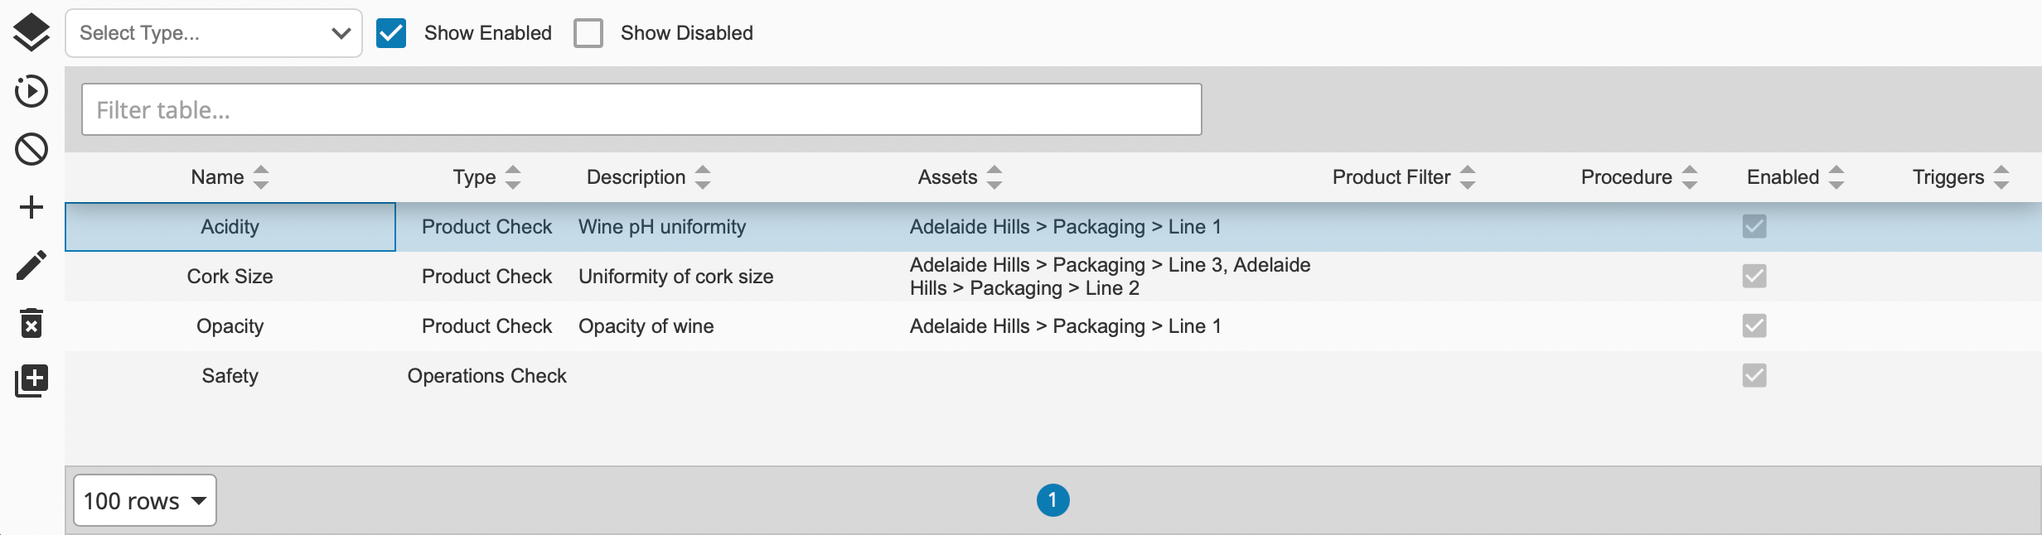
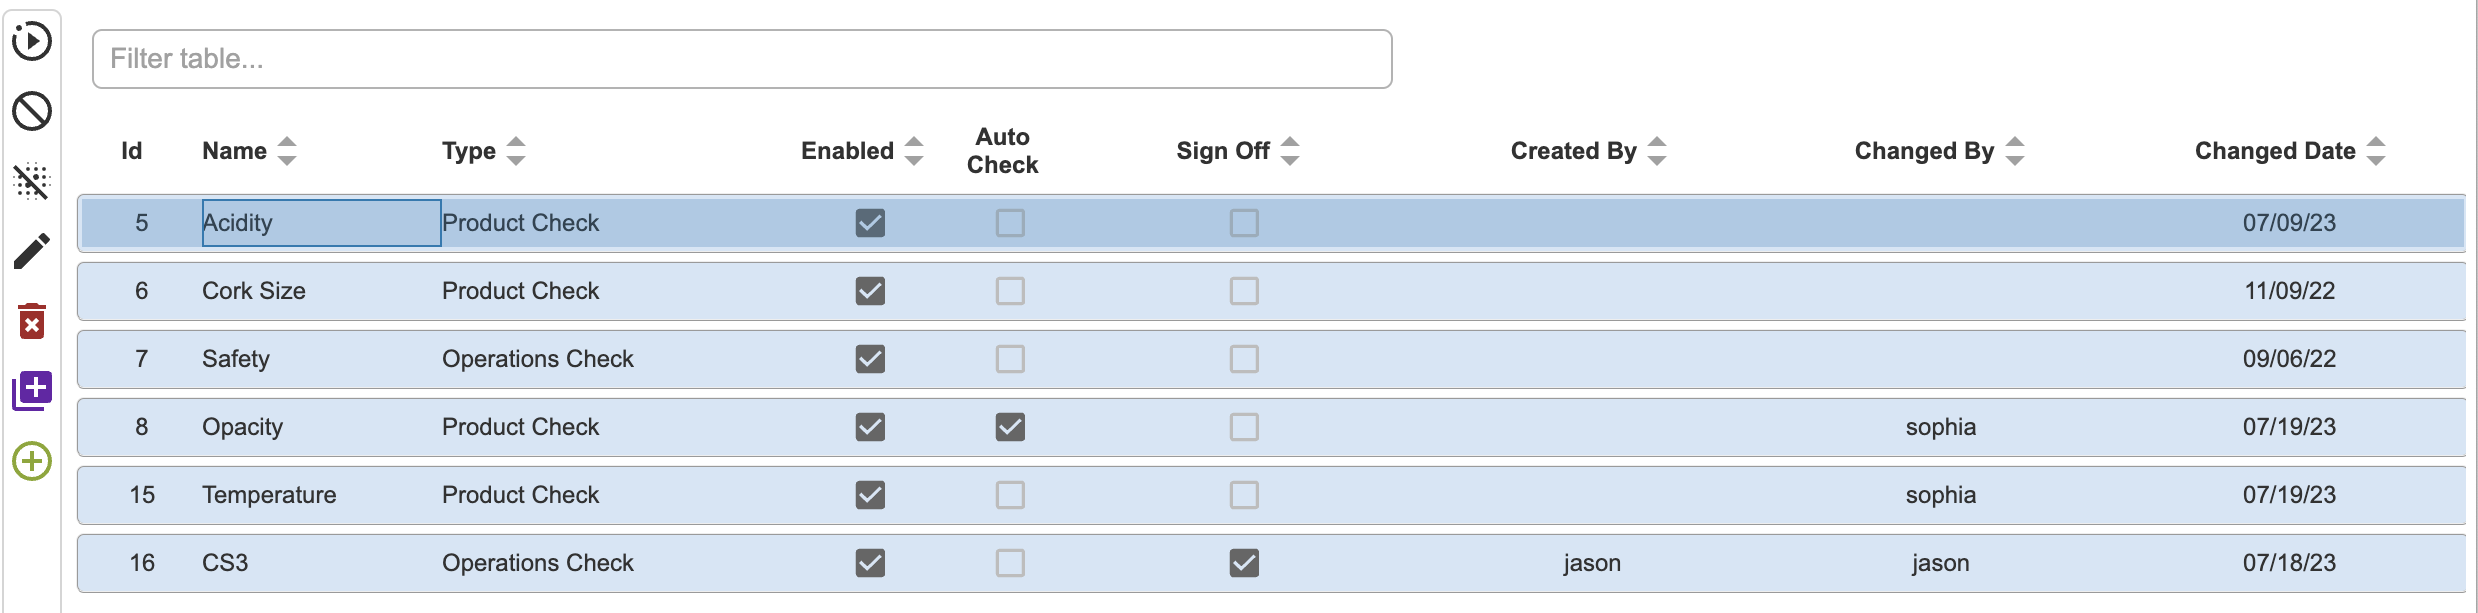
7/19 update

diff --git a/docs/products/quality/configuration/checks.md b/docs/products/quality/configuration/checks.md
@@ -1,6 +1,6 @@
 ---
-id: check-sheets
-title: Check Sheets
+id: checks
+title: Checks
 sidebar_position: 1
 ---
 
@@ -12,54 +12,67 @@ import DuplicateIcon from '@mui/icons-material/AddToPhotosSharp';
 import RefreshIcon from '@mui/icons-material/Cached';
 import UpIcon from '@mui/icons-material/KeyboardArrowUp';
 import DownIcon from '@mui/icons-material/KeyboardArrowDown';
+import ControlPointIcon from '@mui/icons-material/ControlPoint';
+import LayersIcon from '@mui/icons-material/Layers';
 
 :::info
-In order to perform and capture a quality, safety, operations or environmental check, that check must be defined in a check sheet. A check sheet is a collection of one more check items to be taken as a group. Check sheets can be configured in **Quality > Configuration > Check Sheets**.
+In order to perform and capture an operations, part or production check, that check must be defined in a check sheet. A check sheet is a collection of one more check items to be taken as a group. Check sheets can be configured in **Quality > Configuration > Check Sheets**.
 :::
 
 ## Overview
-Existing Check Sheets can be filtered by Asset, Product Set or Product and enabled/disabled state.
-Check sheets can be added <AddIcon fontSize="small" />, edited <EditIcon fontSize="small" />, deleted <DeleteIcon fontSize="small" /> and duplicated <DuplicateIcon fontSize="small" />.
+Existing Check Sheets can be filtered by Asset <LayersIcon fontSize="small" />, Check Type and Enabled/Disabled state.
+![Check Sheets](/img/55.png)
+
+Check sheets can be edited <EditIcon fontSize="small" />, deleted <DeleteIcon fontSize="small" sx={{color: "#a72525"}} />, duplicated <DuplicateIcon fontSize="small" sx={{color: "#6823a8"}} />, and added <ControlPointIcon fontSize="small" sx={{color: "#89a726"}} />.
 
 ![Check Sheets](/img/checksheets-1.png)
 
 ## Creating Check Sheets
-To create a new check sheet, click the Add icon <AddIcon fontSize="small" />. This opens the Check Sheet Editor where the check sheet’s specifications are added.
+To create a new check sheet, click the **Add** icon <ControlPointIcon fontSize="small" sx={{color: "#89a726"}} />. This opens the Check Sheet Editor where the check sheet’s specifications are added.
+![Check Sheets](/img/56.png)
 
 ### Check Sheet Types
-There are three types of check sheets that can be created, Operations, Environmental, and Product. Operations and Environmental Checks can be used to perform housekeeping, environmental controls and safety checks, and do not require a product to be selected. Product Checks record the product being checked and apply any product or process specs.
+There are three types of check sheets that can be created, Operations, Part, and Production. Operations and Environmental Checks can be used to perform housekeeping, environmental controls and safety checks, and do not require a product to be selected. Product Checks record the product being checked and apply any product or process specs.
 
-![Check Sheets](/img/checksheets-2.png)
+![Check Sheets](/img/57.png)
 
-### Auto
-Select ‘Auto’ if this check sheet will automatically capture check values directly from the equipment. Leave ‘Auto’ as false if checks are to be manually performed. An auto checks requires plc tag paths to be added to the process attribute.
 
-### Require Signoff
-When disabled, ‘Submitted’ check sheets will automatically be set to an ‘Approved’ status and values will be used in SPC analysis. When enabled, ‘Submitted’ check sheets can be manually ‘Approved’ or ‘Rejected’.
-
-### Enabled
-If disabled, this check sheet will not be available.
-
-![Check Sheets](/img/checksheets-3.png)
 
 ### Assets(s)
 A check sheet can be configured to only be valid for certain assets. If left blank, this check sheet can be used for all assets. Use the selector on the right to select a list of assets that the check sheet is applicable to. Use the CTRL key to select multiple assets.
 
-### Product(s)
-A check sheet can be configured to only be valid for a certain product or a product set. If left blank, this check sheet can be used for all products. Use the dropdowns to select a specific product or product set.
+### Item(s)
+A check sheet can be configured to only be valid for a certain item. If left blank, this check sheet can be used for all items. Use the dropdowns to select a specific item.
 
-![Check Sheets](/img/checksheets-4.png)
+### Item Sets
+A check sheet can be configured to only be valid for a certain item set. If left blank, this check sheet can be used for all items. Use the dropdowns to select a specific item set.
+![Check Sheets](/img/59.png)
+
+### Tooling
+
+### Auto
+Select **Auto** if this check sheet will automatically capture check values directly from the equipment. Leave ‘Auto’ as false if checks are to be manually performed. An auto checks requires plc tag paths to be added to the process attribute.
+
+### Signoff
+This option indicates that this check requires signoff. When disabled, ‘Submitted’ check sheets will automatically be set to an ‘Approved’ status and values will be used in SPC analysis. When enabled, ‘Submitted’ check sheets can be manually ‘Approved’ or ‘Rejected’.
+
+### Enabled
+If disabled, this check sheet will not be available.
+
+![Check Sheets](/img/58.png)
 
 ### On Fail
-When enabled, a re-test will be automatically scheduled. The re-test can be the same check sheet or a different check sheet as specified in the dropdown. To refresh dropdown options, click the <RefreshIcon fontSize="small" /> button.
+A re-test will be automatically scheduled for the selected check sheet upon failure. The re-test can be the same check sheet or a different check sheet as specified in the dropdown.
 
 ### Notify
-If enabled, an email alert notification will be sent to the notification group(s) as specified in the dropdown.
+This options sends an email alert notification to the notification group(s) selected from the dropdown. If left blank, no notification will occur. 
 
-![Check Sheets](/img/checksheets-5.png)
+![Check Sheets](/img/60.png)
+
+### Sync Taken Date
 
 ### Instructions
-General instructions and information about the check sheet can be entered into the Instructions tab. Specific instructions for check can be entered on the ‘Check Items’ tab.
+General instructions and information about the check sheet can be entered into the **Instructions** tab. Specific instructions for check can be entered on the ‘Check Items’ tab.
 
 ![Check Sheets](/img/checksheets-6.png)
 
@@ -75,7 +88,7 @@ Instructions can be added for each check and are displayed when the check is sel
 
 ![Check Sheets](/img/checksheets-8.png)
 
-A check can be required to be completed by selecting the ‘Required’ field. 
+A check can be required to be completed by selecting the ‘Required’ field.
 
 Multiple measurements can be set to allow for sub-group measurement analysis. By default, the number of measurements is 1. 
 

diff --git a/docs/products/mes/production-data-entry.md b/docs/products/mes/production-data-entry.md
@@ -11,9 +11,11 @@ import ClearIcon from '@mui/icons-material/Clear';
 import CheckBoxIcon from '@mui/icons-material/CheckBox';
 import UndoIcon from '@mui/icons-material/Undo';
 import FilterAltIcon from '@mui/icons-material/FilterAlt';
+import SaveIcon from '@mui/icons-material/Save';
 
+:::info
 The **Production Data Entry** table records data pertaining to asset operation modes, downtime events, and production counts. It can be accessed from the [Asset Operation](docs/products/mes/asset-operation.md) and [Run Review](docs/products/mes/performance-analytics/run-review.md) screens.
-
+:::
 ## Accessing Production Data Entry
 1. Select a line using the **Asset Selector** in the top left.
 ![Production Data Entry](/img/36.png)
@@ -22,21 +24,18 @@ The **Production Data Entry** table records data pertaining to asset operation m
 3. Use the date range selector to select the relevant time frame.
 ![Production Data Entry](/img/37.png)
 
-## Asset Operation
-The production data entry table shows an asset's operation mode. 
+## Editing Asset Operation
+To edit asset operation, open the production data entry table. Then, click on an asset and select the **Operation** tab.
 
-### Editing Asset Operation
-To edit asset operation, open the production data entry table.  
-Click on the <EditIcon fontSize="small" /> button located at the left of the table to open the **Edit Asset Operation** pop-up. 
-
-## Downtime
+## Editing Downtime
 To access downtime data, open the production data entry table. Then, click on an asset and select the **Downtime** tab.
-   ![Editing Downtime](/img/38.png)
+   ![Editing Downtime](/img/41.png)
 
-### Editing Downtime Events
-To edit downtime, open the downtime data table and click on a downtime event. The following functionality is available: 
+To edit downtime, click on a downtime event. The following functionality is available: 
 * **Revert** <UndoIcon fontSize="small" sx={{color: "#db9b57"}}/> : Allows the user to undo changes they made while editing a downtime event.
-* **Split** <CallSplitIcon fontSize="small" sx={{color: "#89a726"}} /> : Separates a singular downtime event into two separate events. 
+* **Split** <CallSplitIcon fontSize="small" sx={{color: "#89a726"}} /> : Separates a singular downtime event into two separate events. Select the location of the split using the popup and press <CallSplitIcon fontSize="small" />
+  to save.
+  ![Production Data Entry](/img/46.png)
 * **Delete** <DeleteForeverIcon fontSize="small" sx={{color: "#d85857"}} /> : Deletes a downtime event
 * **Edit** <EditIcon fontSize="small" sx={{color: "#2d82d2"}} /> : Opens the Edit Events pop-up. 
   * The **Select Asset** dropdown allows the downtime event to be made specific to an individual cell. 
@@ -45,7 +44,6 @@ To edit downtime, open the downtime data table and click on a downtime event. Th
   * The **Comment** box allows any further details to be added below. 
   * Click <CheckBoxIcon fontSize="small" sx={{color: "#bcda57"}}/> to save your changes or <ClearIcon fontSize="small" /> to cancel.
 
-![Editing Downtime](/img/41.png)  
 ![Editing Downtime](/img/39.png)
 
 ### Filtering Downtime Events
@@ -58,14 +56,16 @@ The right side of the footer displays a summary of the table results.
 Additionally, click the <FilterAltIcon fontSize="small" /> button at the top of the table to expand the standard table filter. 
 ![Editing Downtime](/img/43.png)
 
-## Production Counts
-Production counts displays infeed units, outfeed units and waste units associated with an asset. 
+## Editing Production Counts
 To access production counts, open the production data entry table. Then, click on an asset and select the **Counts** tab.
+The **Counts** tab displays infeed units, outfeed units and waste units associated with an asset.
+![Editing Counts](/img/47.png)
 
-Infeed, outfeed and waste units can be configured in **Configuration**. Additionally, the user can configure package count to seamlessly handle the conversions between infeed units (eg. bottles) and outfeed units (ie. cases).
+The user can manually replace infeed, outfeed, or waste values through the production counts screen by clicking on the corresponding box, typing a new value and pressing <SaveIcon fontSize="small" sx={{color: "#89a726"}} />.  
+To clear a value, press the <ClearIcon fontSize="small" /> to the right of the placeholder. Once cleared, a calculator icon will be displayed, indicating that the new value has been calculated automatically.
+![Editing Counts](/img/49.png)
+
+Infeed, outfeed and waste units can be configured in [Asset Management](/category/asset-management). Additionally, the user can configure package count to seamlessly handle the conversions between infeed units (ie. bottles) and outfeed units (ie. cases).
 
 If there is a discrepancy in the recorded infeed, outfeed and waste units, a warning will be displayed.
-
-### Editing Production Counts
-The user can manually replace infeed, outfeed, or waste values through the production counts screen by clicking on the corresponding box, typing a new value and pressing enter. 
-To clear a value, press the x icon to the right of the placeholder. Once cleared, a calculator icon will be displayed, indicating that the new value has been calculated automatically using the other two data pieces. 
+![Editing Counts](/img/48.png)

diff --git a/docs/products/mes/asset-operation.md b/docs/products/mes/asset-operation.md
@@ -6,17 +6,26 @@ sidebar_position: 6
 import CreateIcon from '@mui/icons-material/Create';
 
 :::info
-The asset operation screen can be found under **Production/Line Operation**.
+The asset operation screen can be found under **Production/Asset Operation**.
 :::
+## Operations
+The asset operation screen can be used by an operator to set the mode of a line or asset. Select a line using the **Asset Selector** in the top left.
+![Asset Operation](/img/36.png)
 
-The line operation screen can be used by an operator to set the mode of a line or asset. The current status, OEE metrics and current scheduled events are displayed.
+Production orders can be started and ended in the **Work Order** view:
+![Asset Operation](/img/51.png)
 
-Production Orders can be started and ended as well as production runs. Scheduled production runs can also be started, as well as the mode of the asset changed to any mode configured as *canSelect*.
+Production runs can be started and ended in the **Product** view: 
+![Asset Operation](/img/52.png)
 
-![Asset Operation](/img/line-operation.png)
+Scheduled production runs can be started in the **Schedule** view:
+![Asset Operation](/img/50.png)
 
-## Accessing Production Data Entry
-The [Production Data Entry](docs/products/mes/production-data-entry.md) table can be accessed from the asset operation page by selecting a line using the **Asset Selector** in the top left.
-   ![Editing Downtime](/img/36.png)
-Then, click on the <CreateIcon fontSize="small" /> **Production Entry** tab and use the date range selector to select the relevant time frame.
-   ![Editing Downtime](/img/37.png)
+In the **Mode** view, the mode of the asset can be changed to any mode configured as *canSelect*:
+![Asset Operation](/img/53.png)
+
+## Production Entry
+The [Production Data Entry](docs/products/mes/production-data-entry.md) view can be accessed from the asset operation page. 
+
+Click on the <CreateIcon fontSize="small" /> **Production Entry** tab and use the date range selector to select the relevant time frame.
+   ![Editing Downtime](/img/54.png)

diff --git a/docs/products/mes/home-page.md b/docs/products/mes/home-page.md
@@ -4,18 +4,20 @@ sidebar_position: 1
 ---
 import ChevronRightIcon from '@mui/icons-material/ChevronRight';
 
-## Overview
-
+:::info
 The home page serves as the initial display in the MES application and provides a comprehensive overview of the current status of all assets across all enterprises.
+:::
 
 ## Asset Display Options
 To view an asset, click the <ChevronRightIcon fontSize="small" /> icon adjacent to the asset name. To expand or shrink all assets simultaneously, click the <ChevronRightIcon fontSize="small" /> icon in the home page header bar.
 ![Home Page](/img/34.png)
 
 Individual assets can either be displayed in a compact view or an expanded view. Click on an individual asset to expand or shrink it.
-* **Compact View:** In this view, all lines within an asset are shown, including the current mode of each line.
+
+**Compact View:** In this view, all lines within an asset are shown, including the current mode of each line.
   ![Summary View](/img/9.png)
-* **Expanded View:** This view provides a more detailed perspective. It includes the following information:
+
+**Expanded View:** This view provides a more detailed perspective. It includes the following information:
   * Current mode
   * Current state
   * Mode and state overviews for the selected time frame 
